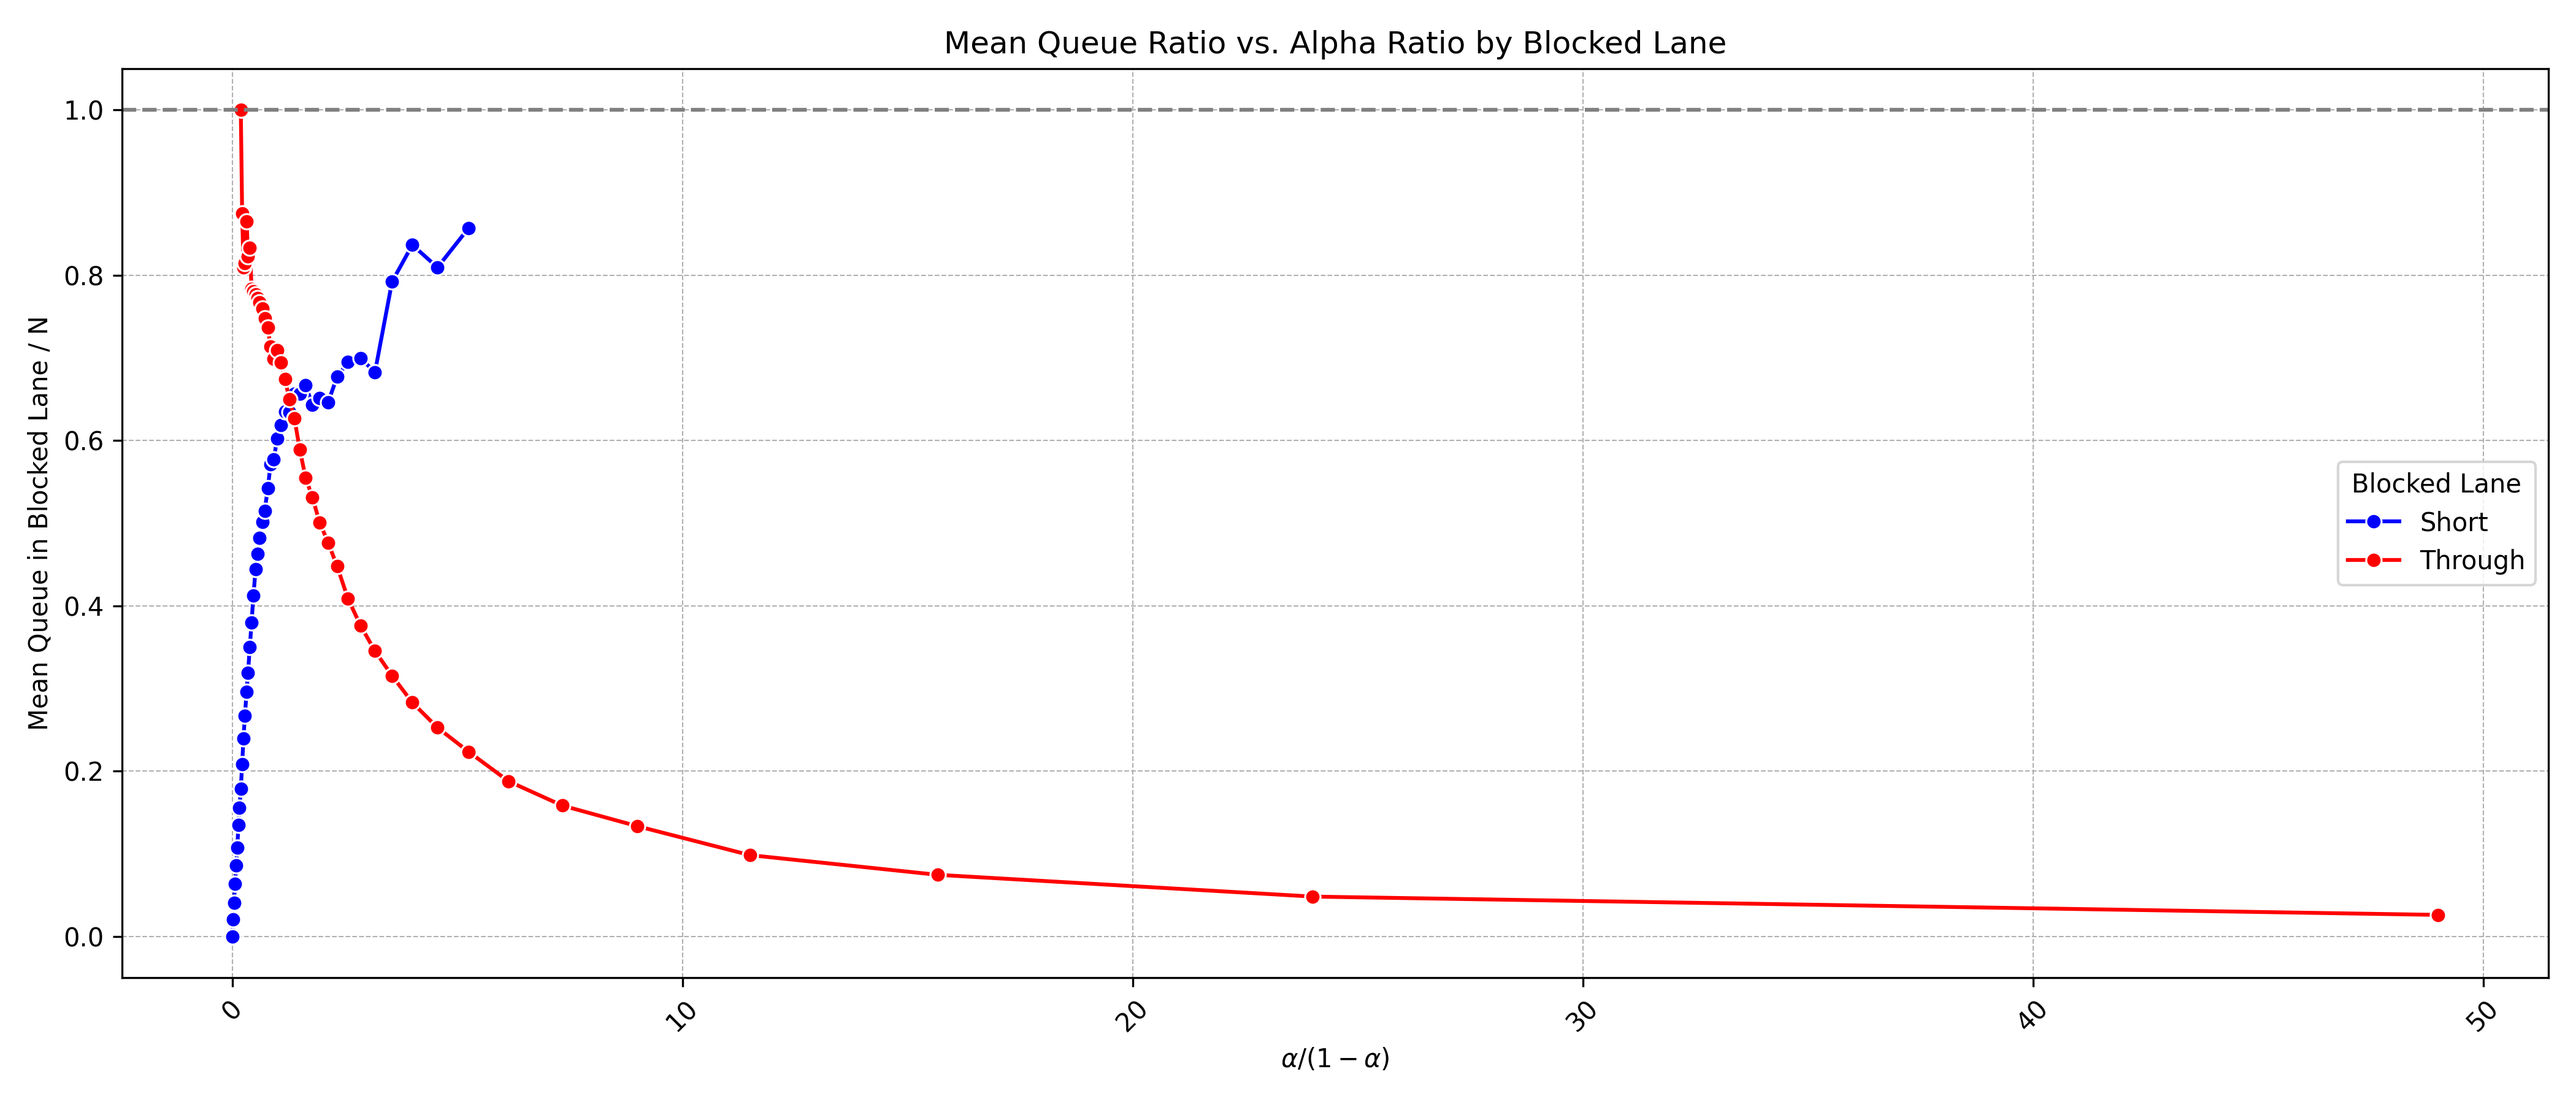
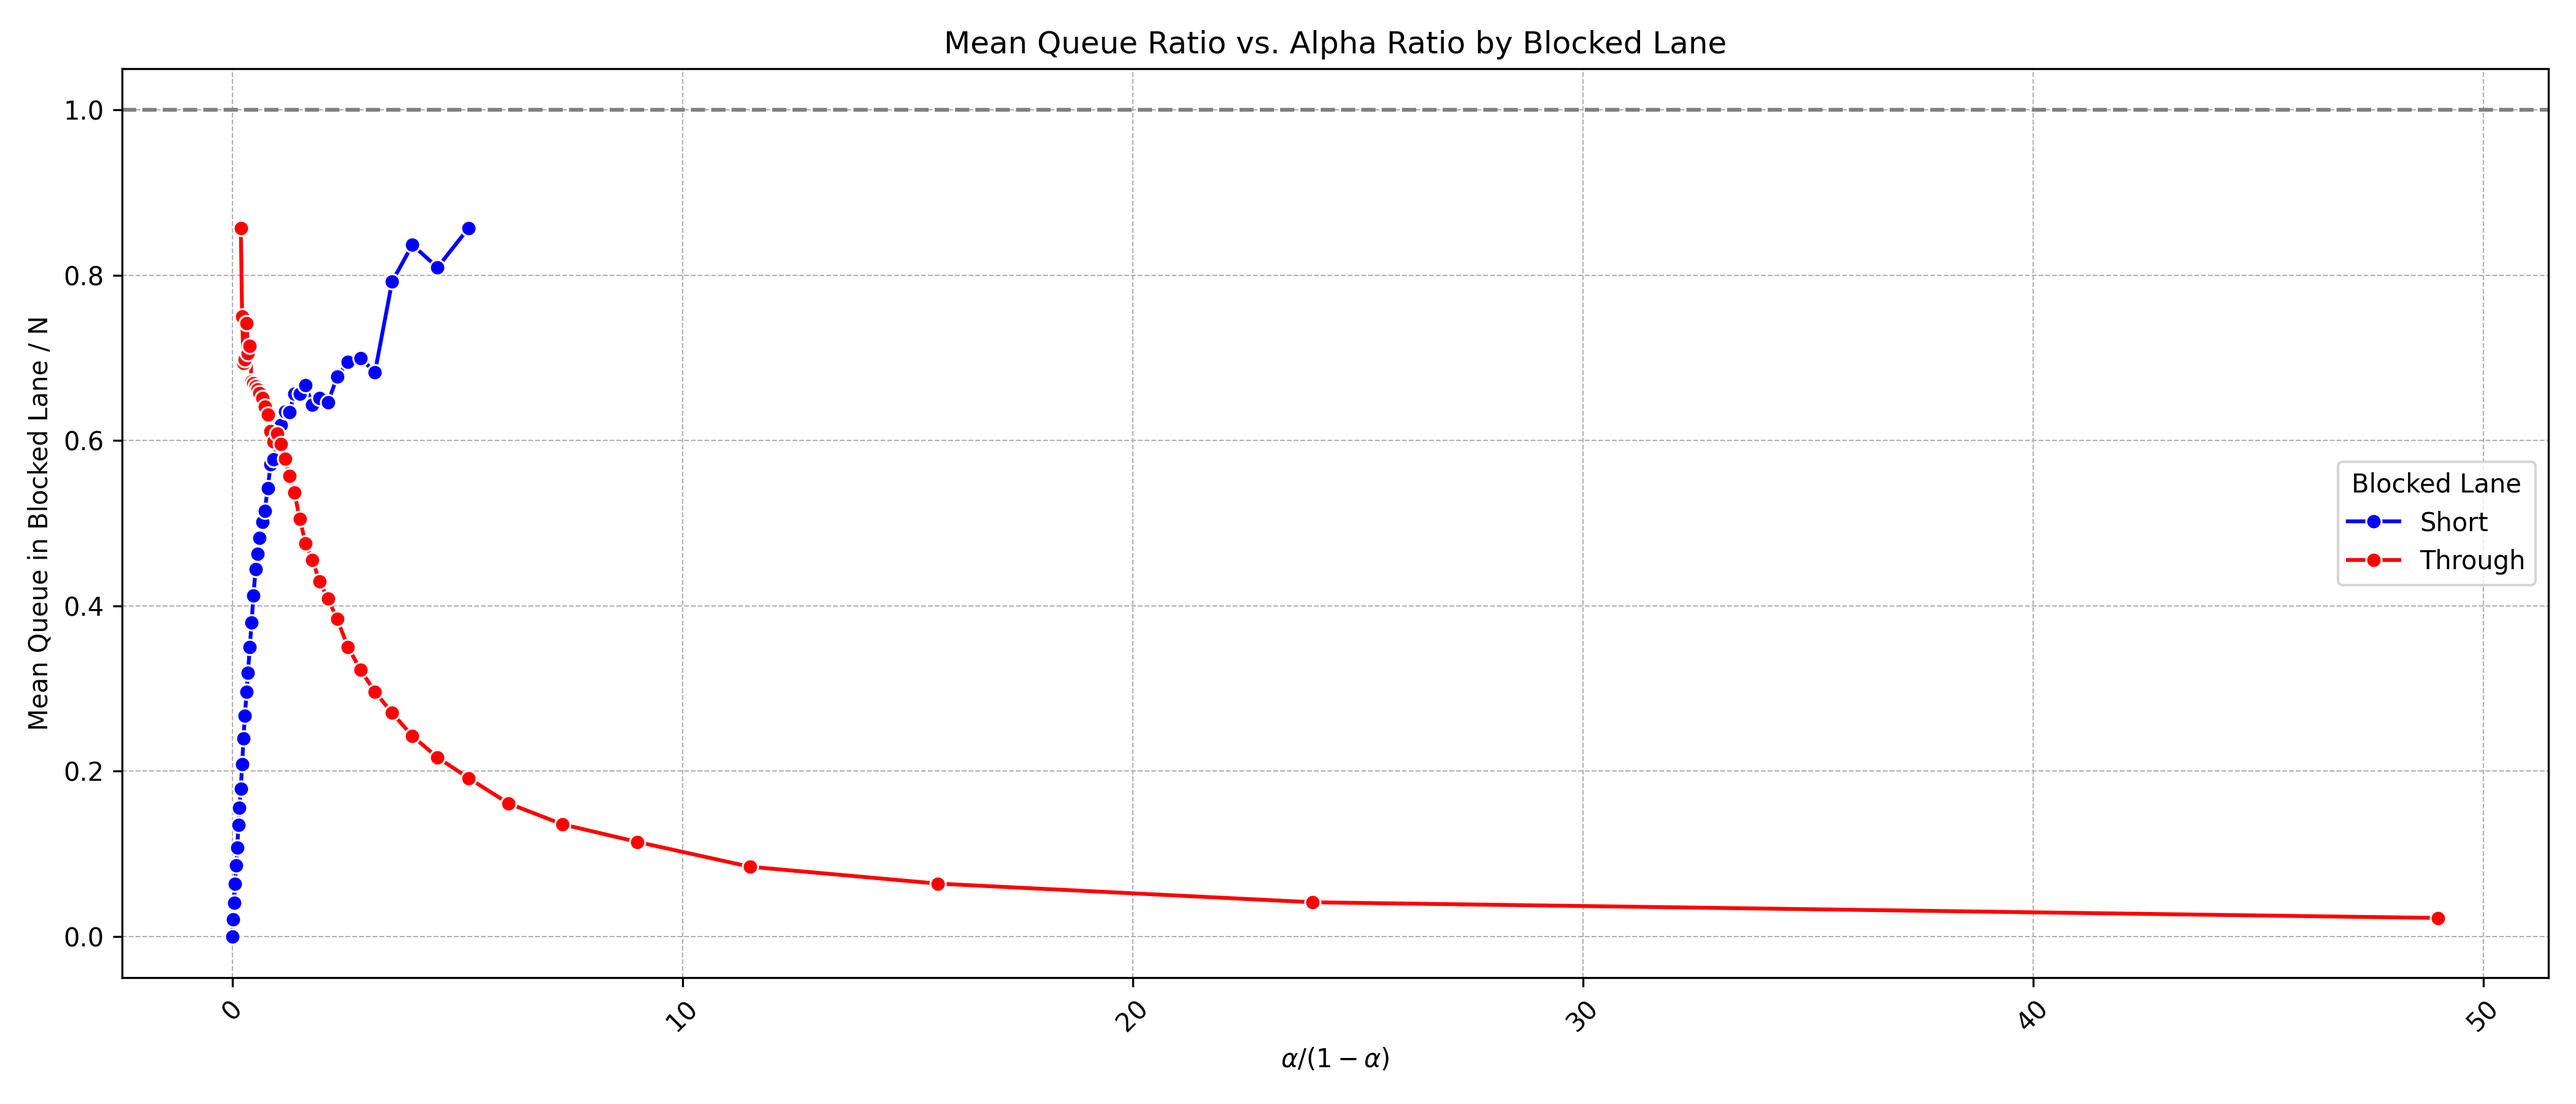
update scripts and plots

Changed region(s): [[0.156, 0.6533, 0.9357, 0.84], [0.0936, 0.2178, 0.1248, 0.4978], [0.1248, 0.5289, 0.156, 0.6533]]

diff --git a/simulation-queuing-theory.py b/simulation-queuing-theory.py
@@ -14,7 +14,7 @@ ratio_labels = [f"{r:.2f}" for r in ratios]
 
 # Constants
 N = 7
-b = 6
+b = 7
 v = 1800
 red = 36
 simulation_runs = 1000
@@ -154,7 +154,7 @@ for patch, color in zip(box['boxes'], plot_colors):
 xtick_positions = list(range(len(x_labels)))
 plt.xticks(xtick_positions, x_labels, rotation=45)
 plt.axhline(1, color='gray', linestyle='--')
-plt.xlabel(r'$\alpha / (1 - \alpha)$')
+plt.xlabel(r'$\alpha/(1-\alpha)$')
 plt.ylabel('Queue in Blocked Lane / N')
 plt.title('Queue Ratio by Blocked Lane Type for Each Lane Usage Ratio')
 plt.grid(True, linestyle='--', linewidth=0.5)
@@ -195,10 +195,12 @@ fig, ax1 = plt.subplots(figsize=(14, 6))
 freq_df[["Short", "Through"]].plot(kind="bar", stacked=True, color=["blue", "red"], ax=ax1, alpha=0.6)
 
 ax1.set_ylabel("Fraction of Blockages")
-ax1.set_xlabel(r"$\alpha / (1 - \alpha)$")
+ax1.set_xlabel(r"$\alpha$")
+# plt.axhline(0.05, color='black', linestyle='--')
+# plt.axhline(0.95, color='black', linestyle='--')
 ax1.set_title("Blockage Frequency and Theoretical Probability vs Lane Usage Ratio")
 ax1.set_xticks(np.arange(len(ratios)))
-ax1.set_xticklabels([f"{r:.2f}" for r in ratios], rotation=45)
+ax1.set_xticklabels([f"{r:.2f}" for r in alphas], rotation=45)
 ax1.grid(axis='y', linestyle='--', linewidth=0.5)
 ax1.legend(title="Blocked Lane", loc="upper left")
 
@@ -362,44 +364,42 @@ plt.tight_layout()
 plt.savefig('Sensitivity_to_Length.png', dpi=300)
 plt.show()
 
-# Parameters
-Ns = range(1, 16)
-alphas = np.round(np.linspace(0.01, 0.51, 50), 3)
+# Define parameter ranges
+Ns = range(1, 21)
+alphas = np.round(np.linspace(0.01, 0.51, 200), 3)
 
-# Prepare figure with individual axes (no shared axes)
-fig, axes = plt.subplots(nrows=5, ncols=3, figsize=(15, 20), sharex=False, sharey=False)
-axes = axes.flatten()
+# Store alpha thresholds
+alpha_thresholds = []
 
-# Plotting
-for idx, N in enumerate(Ns):
-    expected_blocking_queues = []
+# Iterate over each N
+for N in Ns:
+    threshold_alpha = None
     for alpha in alphas:
         p_short = alpha
         p_through = 1 - alpha
 
         expected_val = sum(
-            k * (nbinom.pmf(k, N, p_short) + nbinom.pmf(k, N, p_through))
-            for k in range(N + 1)
+            k * (nbinom.pmf(k, N-1, p_short) + nbinom.pmf(k, N, p_through))
+            for k in range(N)
         )
-        expected_blocking_queues.append(expected_val)
+        ref_val = N * alpha / (1 - alpha)
+        diff = abs(ref_val - expected_val)
 
-    alphas_line = np.linspace(0.01, 0.99, 500)
-    ref_y1 = N * alphas_line / (1 - alphas_line)
+        if diff > 0.5:
+            threshold_alpha = alpha
+            break
 
-    ax = axes[idx]
-    ax.plot(alphas, expected_blocking_queues, color='blue', linestyle='-', label='Expected Blocking Queue')
-    ax.plot(alphas_line[alphas_line <= 0.5], ref_y1[alphas_line <= 0.5], 'r--', label='Approx: Nα/(1-α)')
+    alpha_thresholds.append(threshold_alpha if threshold_alpha else np.nan)
 
-    ax.set_title(f'N = {N}', fontsize=10)
-    ax.set_xlabel("α", fontsize=8)
-    ax.set_ylabel("E[Blocking Queue]", fontsize=8)
-    ax.tick_params(axis='both', which='major', labelsize=8)
-    ax.grid(True, linestyle='--', linewidth=0.5)
-
-# Remove extra blank axes if any
-for j in range(len(Ns), len(axes)):
-    fig.delaxes(axes[j])
-
-plt.subplots_adjust(wspace=0.3, hspace=0.5)
-plt.savefig('Expected_Bonus_Flow.png')
+# Plot
+plt.figure(figsize=(5, 3))
+plt.plot(Ns, alpha_thresholds, linestyle='-', color='blue')
+plt.xlabel("N (Short Lane Capacity)")
+plt.ylabel(r"Acceptable Short Lane Utilization ($\alpha$)")
+# plt.title("Lane Utilization Threshold Where Approximation Error Exceeds 0.5 Vehicles")
+plt.minorticks_on()
+plt.grid(which='major', linestyle='-', linewidth='0.8', color='gray')
+plt.grid(which='minor', linestyle=':', linewidth='0.5', color='lightgray')
+plt.tight_layout()
+plt.savefig('AlphaThreshold.png')
 plt.show()

diff --git a/multiple short lanes/multiple-short-lanes.py b/multiple short lanes/multiple-short-lanes.py
@@ -124,6 +124,12 @@ df_two_short
 df_two_short["AlphaRatio"] = round(0.13 / (1 - 0.13 - 0.32), 2)
 
 # Prepare melted data for queue ratios
+df_two_short["BlockedLane"] = df_two_short["BlockedLane"].map({
+    "short1": "Auxiliary Lane",
+    "short2": "RT Lane",
+    "through": "Continuous Lane"
+})
+
 df_melted = pd.melt(
     df_two_short,
     id_vars=["BlockedLane", "AlphaRatio"],
@@ -135,10 +141,11 @@ df_melted = pd.melt(
 # Normalize queue by N
 df_melted["QueueRatio"] = df_melted["Queue"] / 7
 df_melted["Lane"] = df_melted["Lane"].map({
-    "Q_short1": "Short1",
-    "Q_short2": "Short2",
-    "Q_through": "Through"
+    "Q_short1": "Auxiliary Lane",
+    "Q_short2": "RT Lane",
+    "Q_through": "Continuous Lane"
 })
+
 
 # === Boxplot by lane type ===
 plt.figure(figsize=(10, 6))
@@ -154,7 +161,7 @@ plt.show()
 
 # === Frequency bar plot of blocking lanes ===
 plt.figure(figsize=(8, 6))
-sns.countplot(data=df_two_short, x="BlockedLane", palette={"short1": "blue", "short2": "orange", "through": "red"})
+sns.countplot(data=df_two_short, x="BlockedLane", palette={"Auxiliary Lane": "blue", "RT Lane": "orange", "Continuous Lane": "red"})
 plt.title("Frequency of Blocking Lane")
 plt.ylabel("Count")
 plt.xlabel("Blocking Lane")
@@ -169,7 +176,7 @@ plt.figure(figsize=(14, 6))
 sns.violinplot(
     data=df_melted,
     x="BlockingLane", y="QueueRatio", hue="Lane",
-    palette={"Short1": "blue", "Short2": "orange", "Through": "red"},
+    palette={"Auxiliary Lane": "blue", "RT Lane": "orange", "Continuous Lane": "red"},
     split=False
 )
 plt.title("Queue Ratio in All Lanes Grouped by Blocking Lane")
